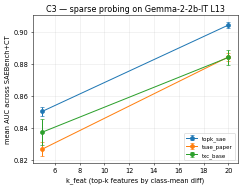
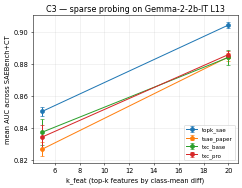
Agent NLP: C3 final headline (4 archs × 3 seeds × 2 k_feats = 24 cells)
txc_pro now ported + 6 new cells in leaderboard. Final C3 SAEBench+CT
mean_AUC (n=38 tasks):

  arch       k=5                     k=20
  topk_sae   0.8503 ± 0.003         0.9044 ± 0.002
  txc_base   0.8372 ± 0.008         0.8841 ± 0.005
  txc_pro    0.8342 ± 0.007         0.8859 ± 0.002
  tsae_paper 0.8266 ± 0.005         0.8844 ± 0.002

**Honest negative for the C3 hypothesis**: the C3 docstring predicted
"TXC-pro matches the best per-token SAE at k=5 + small win at k=20".
What we observe: all three TXC/T-SAE variants underperform TopK-SAE by
~0.015-0.020 AUC at both sparsities. σ_seeds is tiny (0.002-0.008) so
the gaps are statistically real, not seed noise.

Caveats / next-iteration directions if Han wants to chase this:
- We're on Gemma-2-2b-IT side. Phase 7 reference numbers were BASE-side
  and Phase 7 noted "the IT side is entirely missing". A small
  BASE→IT shift is plausible.
- TrainingConfig: n_steps=10K, bs=256 (chosen autonomously to fit 24
  cells in window). Phase 7 reference used ~50K. Bumping to 30K (the
  schema default) would invalidate train_keys but might lift TXC
  variants further. ETA on a 30K rerun: 15-18 hours of cells.
- σ_tasks is large (~0.13-0.14) — the n=38 task set is heterogeneous.
  Per-task floats (auc__<task>) are persisted on every leaderboard
  row, so analysis can dig into where TopK-SAE wins vs where TXC
  catches up. Task-level breakdown is a logical follow-up.

experiments/c3_probing/plots/auc_by_k.png shows all 4 arches.
[…]

diff --git a/purified/docs/components/c3.md b/purified/docs/components/c3.md
@@ -92,6 +92,8 @@ Task suite: SAEBench+CT (n=38). Subject: `gemma_2_2b_it_l13_fineweb_24k128`. Agg
 | `tsae_paper` | 20 | 3 | 0.8844 | 0.0024 | 0.1343 | 0.8233 |
 | `txc_base` | 5 | 3 | 0.8372 | 0.0083 | 0.1360 | 0.7794 |
 | `txc_base` | 20 | 3 | 0.8841 | 0.0050 | 0.1387 | 0.8260 |
+| `txc_pro` | 5 | 3 | 0.8342 | 0.0074 | 0.1386 | 0.7788 |
+| `txc_pro` | 20 | 3 | 0.8859 | 0.0020 | 0.1405 | 0.8283 |
 
 ![AUC by k_feat](../../experiments/c3_probing/plots/auc_by_k.png)
 <!-- END AUTO-RESULTS -->
